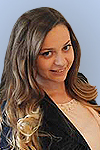
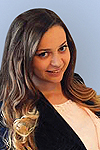
fix main bg & people add

diff --git a/css/style.css b/css/style.css
@@ -6,6 +6,7 @@ body {
     background: url('../img/fotolia_79208658.jpg') center center no-repeat;
     background-color: #444;
     background-size: cover;
+    background-position: 0 -410px;
     background-attachment: fixed;
     margin: 0;
     padding: 0;
@@ -76,6 +77,10 @@ a:hover {
     font-weight: bold;
 }
 
+.relative {
+    position: relative;
+}
+
 .container {
     background-color: rgba(255,255,255,0.70);
     max-width: 1200px;
@@ -108,7 +113,7 @@ a:hover {
     position: relative;
     border: 0;
     width: 1140px;
-    height: 250px;
+    height: 200px;
     left: -15px;
 }
 

diff --git a/css/jcarousel.css b/css/jcarousel.css
@@ -25,7 +25,7 @@
 .jcarousel-control-prev,
 .jcarousel-control-next {
     position: absolute;
-    top: 60px;
+    top: 50px;
     width: 30px;
     height: 30px;
     text-align: center;

diff --git a/football.php b/football.php
@@ -6,7 +6,7 @@
     <link rel="shortcut icon" href="favicon.ico" type="image/x-icon" />
     <link rel="icon" type="image/png" href="img/football.png" />
     <link type="text/css" rel="stylesheet" href="css/jcarousel.css?2015111204" media="screen">
-    <link type="text/css" rel="stylesheet" href="css/style.css?2015111401" media="screen">
+    <link type="text/css" rel="stylesheet" href="css/style.css?2015111402" media="screen">
 </head>
 <body>
     <div class="container">
@@ -82,7 +82,7 @@
                                 10 лет опыта работы в АНКОРе</div>
                         </li>
                         <li class="member">
-                            <img src="img/member.jpg">
+                            <img src="img/people/Teplouhova.jpg">
                             <div class="football-position">Капитан команды</div>
                             <div class="name">Анастасия Теплоухова</div>
                             <div class="position">Исполнительный директор ANCOR Professional<br>
@@ -96,133 +96,203 @@
                 <div class="jcarousel">
                     <ul class="team">
                         <li class="member">
-                            <a href=""><img src="img/member.jpg"></a>
-                            <div class="description">
-                                <div class="football-position">Капитан команды</div>
-                                <div class="name">Алексей Миронов</div>
-                                <div class="position">Руководитель управления
-                                    всеми возможными управлениями, Москва</div>
+                            <a href=""><img src="img/people/Skvortsova.jpg"></a>
+                            <div class="relative">
+                                <div class="description">
+                                    <div class="name">Александра Скворцова</div>
+                                    <div class="position">Руководитель групп подбора персонала «Административный менеджмент, HR и юриспруденция», «Информационные технологии», Москва<br>
+                                        16 лет опыта работы в АНКОРе</div>
                                 </div>
+                            </div>
                         </li>
                         <li class="member">
-                            <a href=""><img src="img/member.jpg"></a>
-                            <div class="name">Алексей Миронов</div>
-                            <div class="position">Руководитель управления
-                                всеми возможными управлениями, Москва</div>
+                            <a href=""><img src="img/people/Gorshkova.jpg"></a>
+                            <div class="relative">
+                                <div class="description">
+                                    <div class="name">Анна Горшкова</div>
+                                    <div class="position">Региональный менеджер направления «Логистика», Москва<br>
+                                        5 лет опыта работы в АНКОРе</div>
+                                </div>
+                            </div>
                         </li>
                         <li class="member">
-                            <a href=""><img src="img/member.jpg"></a>
-                            <div class="name">Алексей Миронов</div>
-                            <div class="position">Руководитель управления
-                                всеми возможными управлениями, Москва</div>
+                            <a href=""><img src="img/people/Kukalets.jpg"></a>
+                            <div class="relative">
+                                <div class="description">
+                                    <div class="name">Наталья Кукалец</div>
+                                    <div class="position">Руководитель группы подбора персонала «Маркетинг, реклама и PR», Москва<br>
+                                        15 лет опыта работы в АНКОРе</div>
+                                </div>
+                            </div>
                         </li>
                         <li class="member">
-                            <a href=""><img src="img/member.jpg"></a>
-                            <div class="name">Алексей Миронов</div>
-                            <div class="position">Руководитель управления
-                                всеми возможными управлениями, Москва</div>
+                            <a href=""><img src="img/people/Sur.jpg"></a>
+                            <div class="relative">
+                                <div class="description">
+                                    <div class="name">Олеся Сур</div>
+                                    <div class="position">Старший консультант группы «Финансы и бухгалтерия», Москва<br>
+                                        12 лет опыта работы в АНКОРе</div>
+                                </div>
+                            </div>
                         </li>
                         <li class="member">
-                            <a href=""><img src="img/member.jpg"></a>
-                            <div class="name">Алексей Миронов</div>
-                            <div class="position">Руководитель управления
-                                всеми возможными управлениями, Москва</div>
+                            <a href=""><img src="img/people/Bobyreva.jpg"></a>
+                            <div class="relative">
+                                <div class="description">
+                                    <div class="name">Анна Бобырева</div>
+                                    <div class="position">Консультант группы «Информационные технологии», Москва<br>
+                                        9 лет опыта работы в АНКОРе</div>
+                                </div>
+                            </div>
                         </li>
                         <li class="member">
-                            <a href=""><img src="img/member.jpg"></a>
-                            <div class="name">Алексей Миронов</div>
-                            <div class="position">Руководитель управления
-                                всеми возможными управлениями, Москва</div>
+                            <a href=""><img src="img/people/Orlova.jpg"></a>
+                            <div class="relative">
+                                <div class="description">
+                                    <div class="name">Вера Орлова</div>
+                                    <div class="position">Консультант группы «Маркетинг, реклама и PR», Москва<br>
+                                        9 лет опыта работы в АНКОРе</div>
+                                </div>
+                            </div>
                         </li>
                         <li class="member">
-                            <a href=""><img src="img/member.jpg"></a>
-                            <div class="name">Алексей Миронов</div>
-                            <div class="position">Руководитель управления
-                                всеми возможными управлениями, Москва</div>
+                            <a href=""><img src="img/people/Larina.jpg"></a>
+                            <div class="relative">
+                                <div class="description">
+                                    <div class="name">Светлана Ларина</div>
+                                    <div class="position">Консультант группы «Административный менеджмент, HR и юриспруденция», Москва<br>
+                                        8 лет опыта работы в АНКОРе</div>
+                                </div>
+                            </div>
                         </li>
                         <li class="member">
-                            <a href=""><img src="img/member.jpg"></a>
-                            <div class="name">Алексей Миронов</div>
-                            <div class="position">Руководитель управления
-                                всеми возможными управлениями, Москва</div>
+                            <a href=""><img src="img/people/Kotenko.jpg"></a>
+                            <div class="relative">
+                                <div class="description">
+                                    <div class="name">Елизавета Котенко</div>
+                                    <div class="position">Руководитель группы подбора персонала «Логистика», Санкт-Петербург<br>
+                                        Опыт работы в АНКОРе 8 лет</div>
+                                </div>
+                            </div>
                         </li>
                         <li class="member">
-                            <a href=""><img src="img/member.jpg"></a>
-                            <div class="name">Алексей Миронов</div>
-                            <div class="position">Руководитель управления
-                                всеми возможными управлениями, Москва</div>
+                            <a href=""><img src="img/people/Panykova.jpg"></a>
+                            <div class="relative">
+                                <div class="description">
+                                    <div class="name">Наталья Панькова</div>
+                                    <div class="position">Руководитель группы подбора персонала «Поддержка бизнеса», Санкт-Петербург<br>
+                                        4 года опыта работы в АНКОРе</div>
+                                </div>
+                            </div>
                         </li>
                         <li class="member">
-                            <a href=""><img src="img/member.jpg"></a>
-                            <div class="name">Алексей Миронов</div>
-                            <div class="position">Руководитель управления
-                                всеми возможными управлениями, Москва</div>
+                            <a href=""><img src="img/people/Vasilyeva.jpg"></a>
+                            <div class="relative">
+                                <div class="description">
+                                    <div class="name">Александра Васильева</div>
+                                    <div class="position">Консультант группы подбора персонала «Поддержка бизнеса», Санкт-Петербург</div>
+                                </div>
+                            </div>
                         </li>
                         <li class="member">
-                            <a href=""><img src="img/member.jpg"></a>
-                            <div class="name">Алексей Миронов</div>
-                            <div class="position">Руководитель управления
-                                всеми возможными управлениями, Москва</div>
+                            <a href=""><img src="img/people/Mayorova.jpg"></a>
+                            <div class="relative">
+                                <div class="description">
+                                    <div class="name">Ксения Гатенюк</div>
+                                    <div class="position">Консультант по подбору персонала, Калининград<br>
+                                        4 года опыта работы в АНКОРе</div>
+                                </div>
+                            </div>
                         </li>
                         <li class="member">
-                            <a href=""><img src="img/member.jpg"></a>
-                            <div class="name">Алексей Миронов</div>
-                            <div class="position">Руководитель управления
-                                всеми возможными управлениями, Москва</div>
+                            <a href=""><img src="img/people/Karmaeva.jpg"></a>
+                            <div class="relative">
+                                <div class="description">
+                                    <div class="name">Ольга Кармаева</div>
+                                    <div class="position">Руководитель группы подбора персонала «Поддержка бизнеса», Нижний Новгород<br>
+                                        11 лет опыта работы в АНКОРе</div>
+                                </div>
+                            </div>
                         </li>
                         <li class="member">
-                            <a href=""><img src="img/member.jpg"></a>
-                            <div class="name">Алексей Миронов</div>
-                            <div class="position">Руководитель управления
-                                всеми возможными управлениями, Москва</div>
+                            <a href=""><img src="img/people/Aitova.jpg"></a>
+                            <div class="relative">
+                                <div class="description">
+                                    <div class="name">Галина Аитова</div>
+                                    <div class="position">Руководитель группы подбора персонала, Самара<br>
+                                        7 лет опыта работы в АНКОРе</div>
+                                </div>
+                            </div>
                         </li>
                         <li class="member">
-                            <a href=""><img src="img/member.jpg"></a>
-                            <div class="name">Алексей Миронов</div>
-                            <div class="position">Руководитель управления
-                                всеми возможными управлениями, Москва</div>
+                            <a href=""><img src="img/people/Baranova.jpg"></a>
+                            <div class="relative">
+                                <div class="description">
+                                    <div class="name">Ольга Баранова</div>
+                                    <div class="position">Младший консультант по подбору персонала, Казань</div>
+                                </div>
+                            </div>
                         </li>
                         <li class="member">
-                            <a href=""><img src="img/member.jpg"></a>
-                            <div class="name">Алексей Миронов</div>
-                            <div class="position">Руководитель управления
-                                всеми возможными управлениями, Москва</div>
+                            <a href=""><img src="img/people/Skripchenko.jpg"></a>
+                            <div class="relative">
+                                <div class="description">
+                                    <div class="name">Надежда Скрипченко</div>
+                                    <div class="position">Старший консультант по подбору персонала, Ростов-на-Дону<br>
+                                        6 лет опыта работы в АНКОРе</div>
+                                </div>
+                            </div>
                         </li>
                         <li class="member">
-                            <a href=""><img src="img/member.jpg"></a>
-                            <div class="name">Алексей Миронов</div>
-                            <div class="position">Руководитель управления
-                                всеми возможными управлениями, Москва</div>
+                            <a href=""><img src="img/people/Evseeva.jpg"></a>
+                            <div class="relative">
+                                <div class="description">
+                                    <div class="name">Анастасия Евсеева</div>
+                                    <div class="position">Рекрутер, Волгоград</div>
+                                </div>
+                            </div>
                         </li>
                         <li class="member">
-                            <a href=""><img src="img/member.jpg"></a>
-                            <div class="name">Алексей Миронов</div>
-                            <div class="position">Руководитель управления
-                                всеми возможными управлениями, Москва</div>
+                            <a href=""><img src="img/people/Trofimova.jpg"></a>
+                            <div class="relative">
+                                <div class="description">
+                                    <div class="name">Ольга Трофимова</div>
+                                    <div class="position">Консультант по подбору персонала, Екатеринбург<br>
+                                        8 лет опыта работы в АНКОРе</div>
+                                </div>
+                            </div>
                         </li>
                         <li class="member">
-                            <a href=""><img src="img/member.jpg"></a>
-                            <div class="name">Алексей Миронов</div>
-                            <div class="position">Руководитель управления
-                                всеми возможными управлениями, Москва</div>
+                            <a href=""><img src="img/people/Plesovskih.jpg"></a>
+                            <div class="relative">
+                                <div class="description">
+                                    <div class="name">Анна Плесовских</div>
+                                    <div class="position">Директор по маркетинговым коммуникациям, Москва<br>
+                                        7 лет опыта работы в АНКОРе</div>
+                                </div>
+                            </div>
                         </li>
                         <li class="member">
-                            <a href=""><img src="img/member.jpg"></a>
-                            <div class="name">Алексей Миронов</div>
-                            <div class="position">Руководитель управления
-                                всеми возможными управлениями, Москва</div>
+                            <a href=""><img src="img/people/Feoktistova.jpg"></a>
+                            <div class="relative">
+                                <div class="description">
+                                    <div class="name">Светлана Феоктистова
+                                        </div>
+                                    <div class="position">Специалист по маркетинговым коммуникациям, Москва<br>
+                                        4 года опыта работы в АНКОРе</div>
+                                </div>
+                            </div>
                         </li>
                         <li class="member">
-                            <a href=""><img src="img/member.jpg"></a>
-                            <div class="name">Алексей Миронов</div>
-                            <div class="position">Руководитель управления
-                                всеми возможными управлениями, Москва</div>
-                        </li>
-                        <li class="member">
-                            <a href=""><img src="img/member.jpg"></a>
-                            <div class="name">Алексей Миронов</div>
-                            <div class="position">Руководитель управления
-                                всеми возможными управлениями, Москва</div>
+                            <a href=""><img src="img/people/Kovalenko.jpg"></a>
+                            <div class="relative">
+                                <div class="description">
+                                    <div class="name">Наталья Коваленко
+                                        </div>
+                                    <div class="position">Региональный специалист по маркетингу, Санкт-Петербург<br>
+                                        3 года опыта работы в АНКОРе</div>
+                                </div>
+                            </div>
                         </li>
                     </ul>
                 </div>
